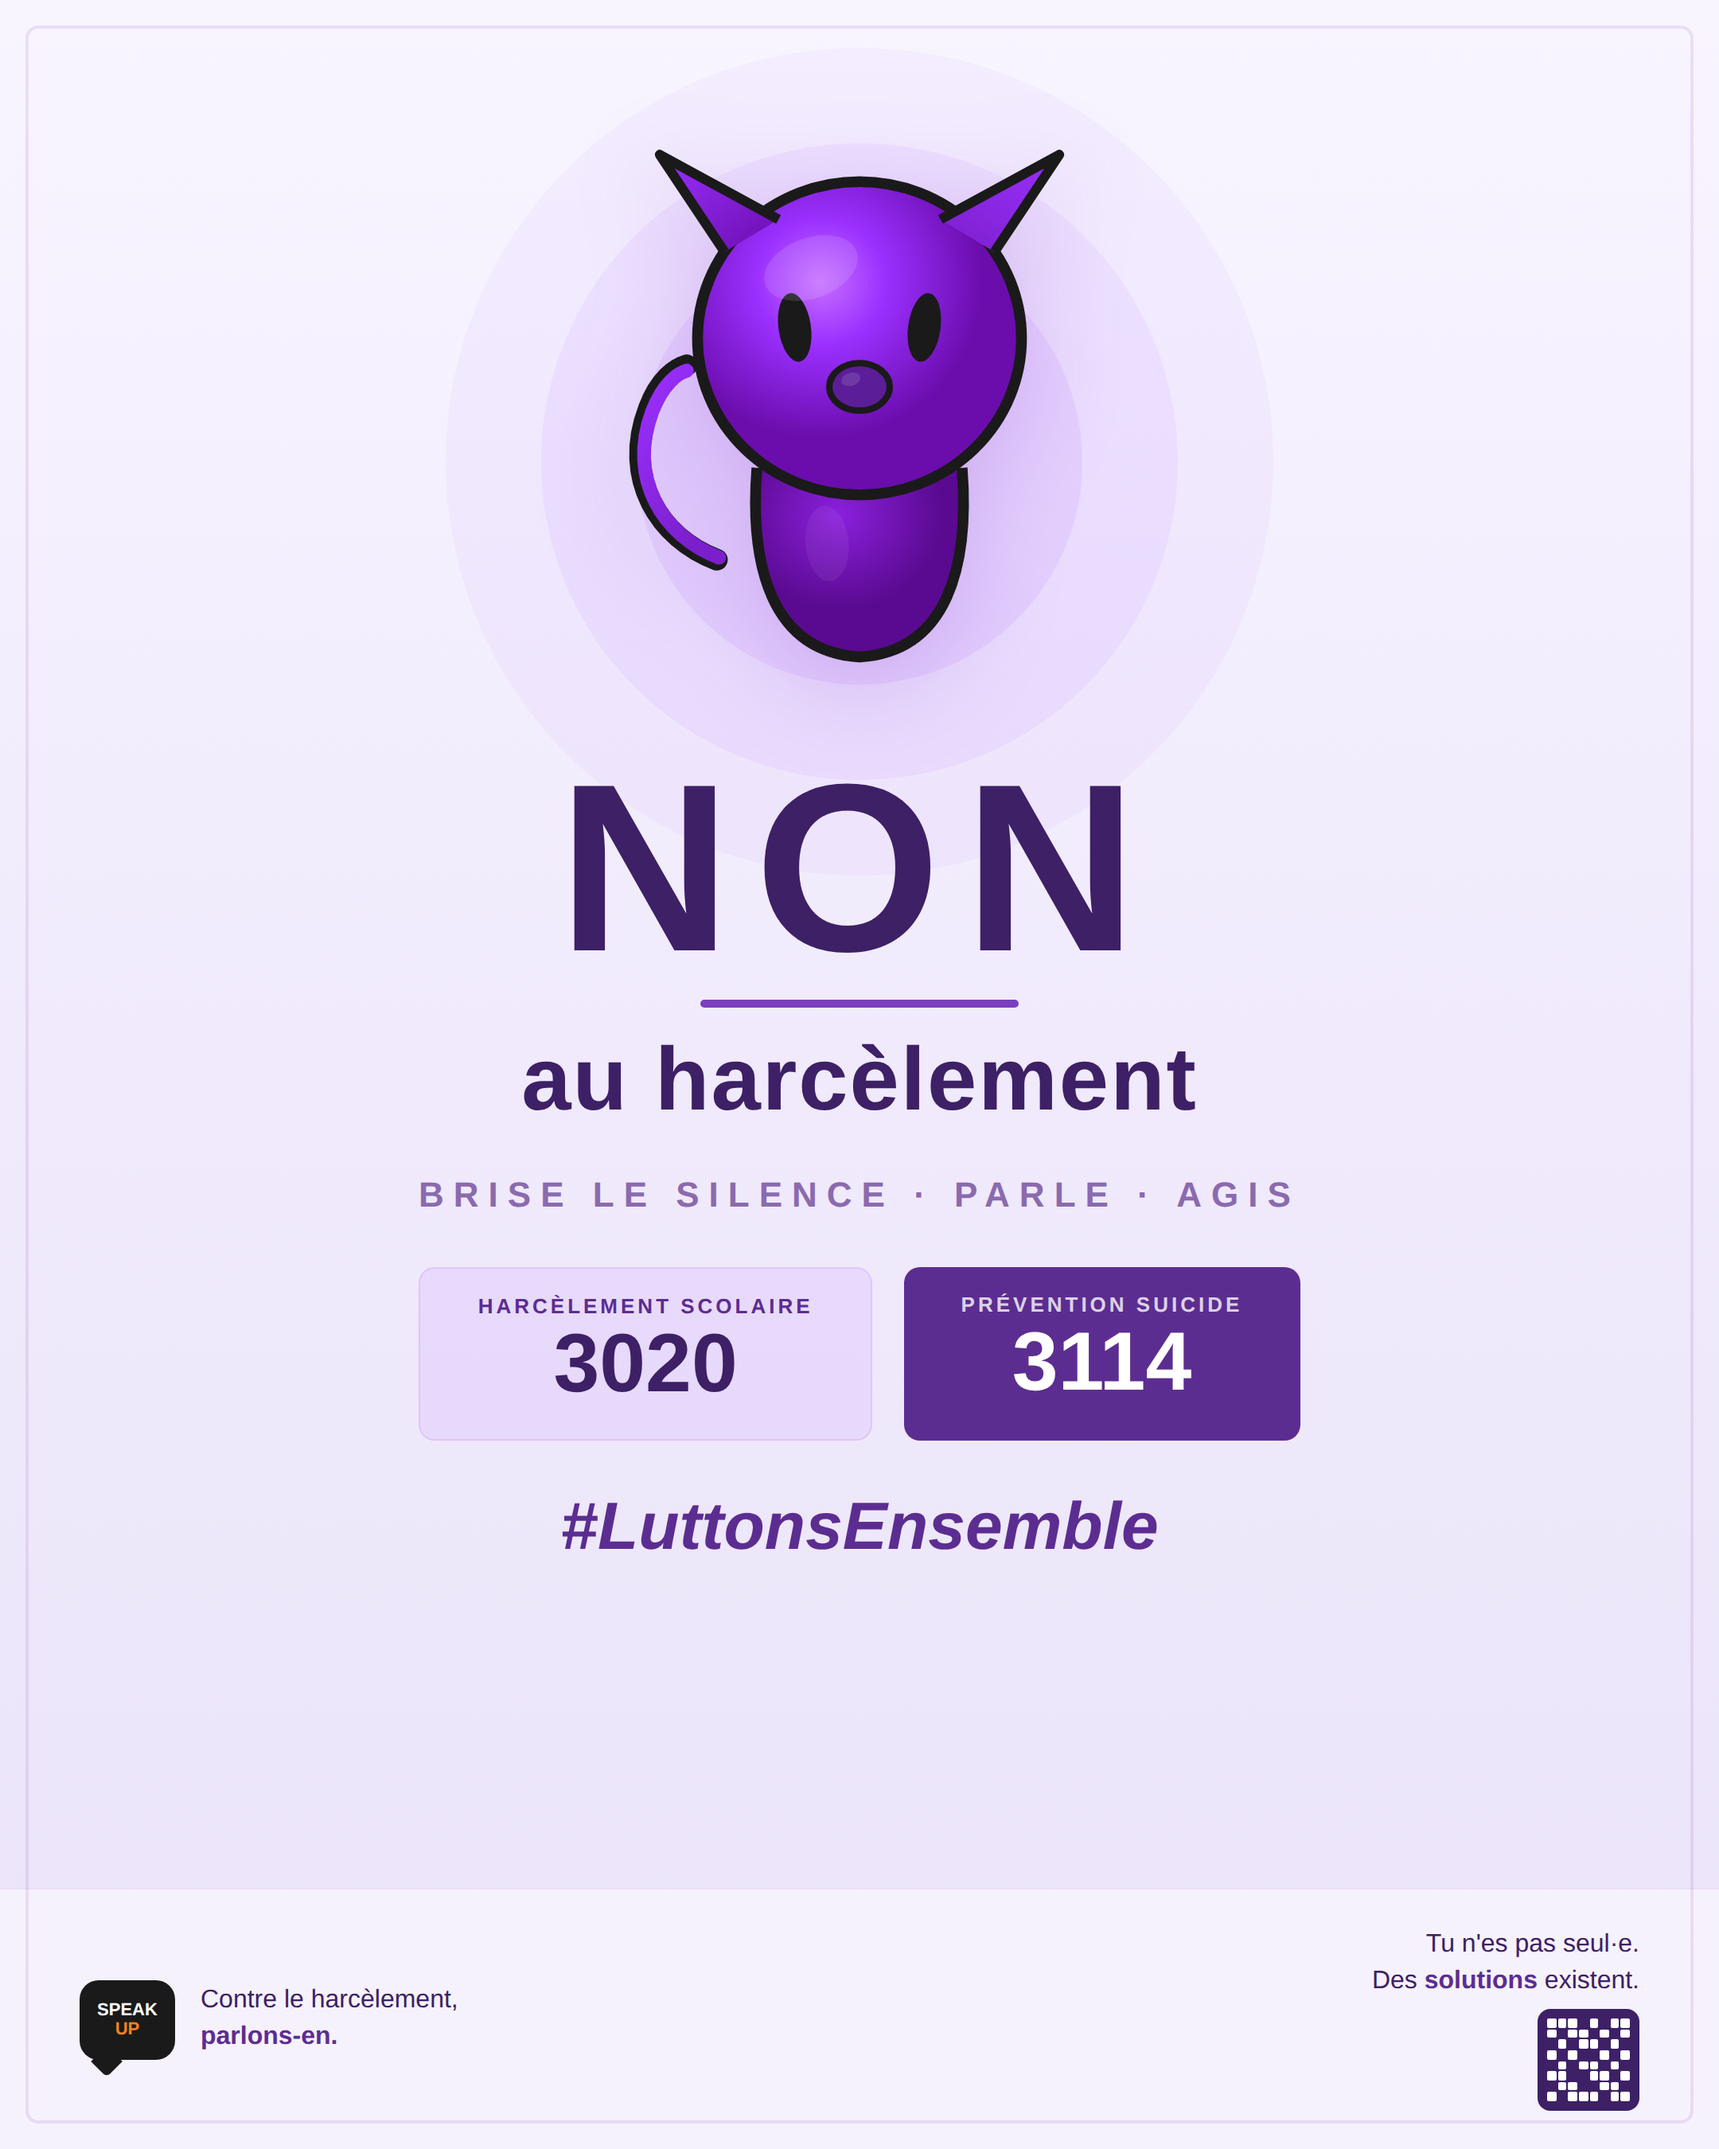
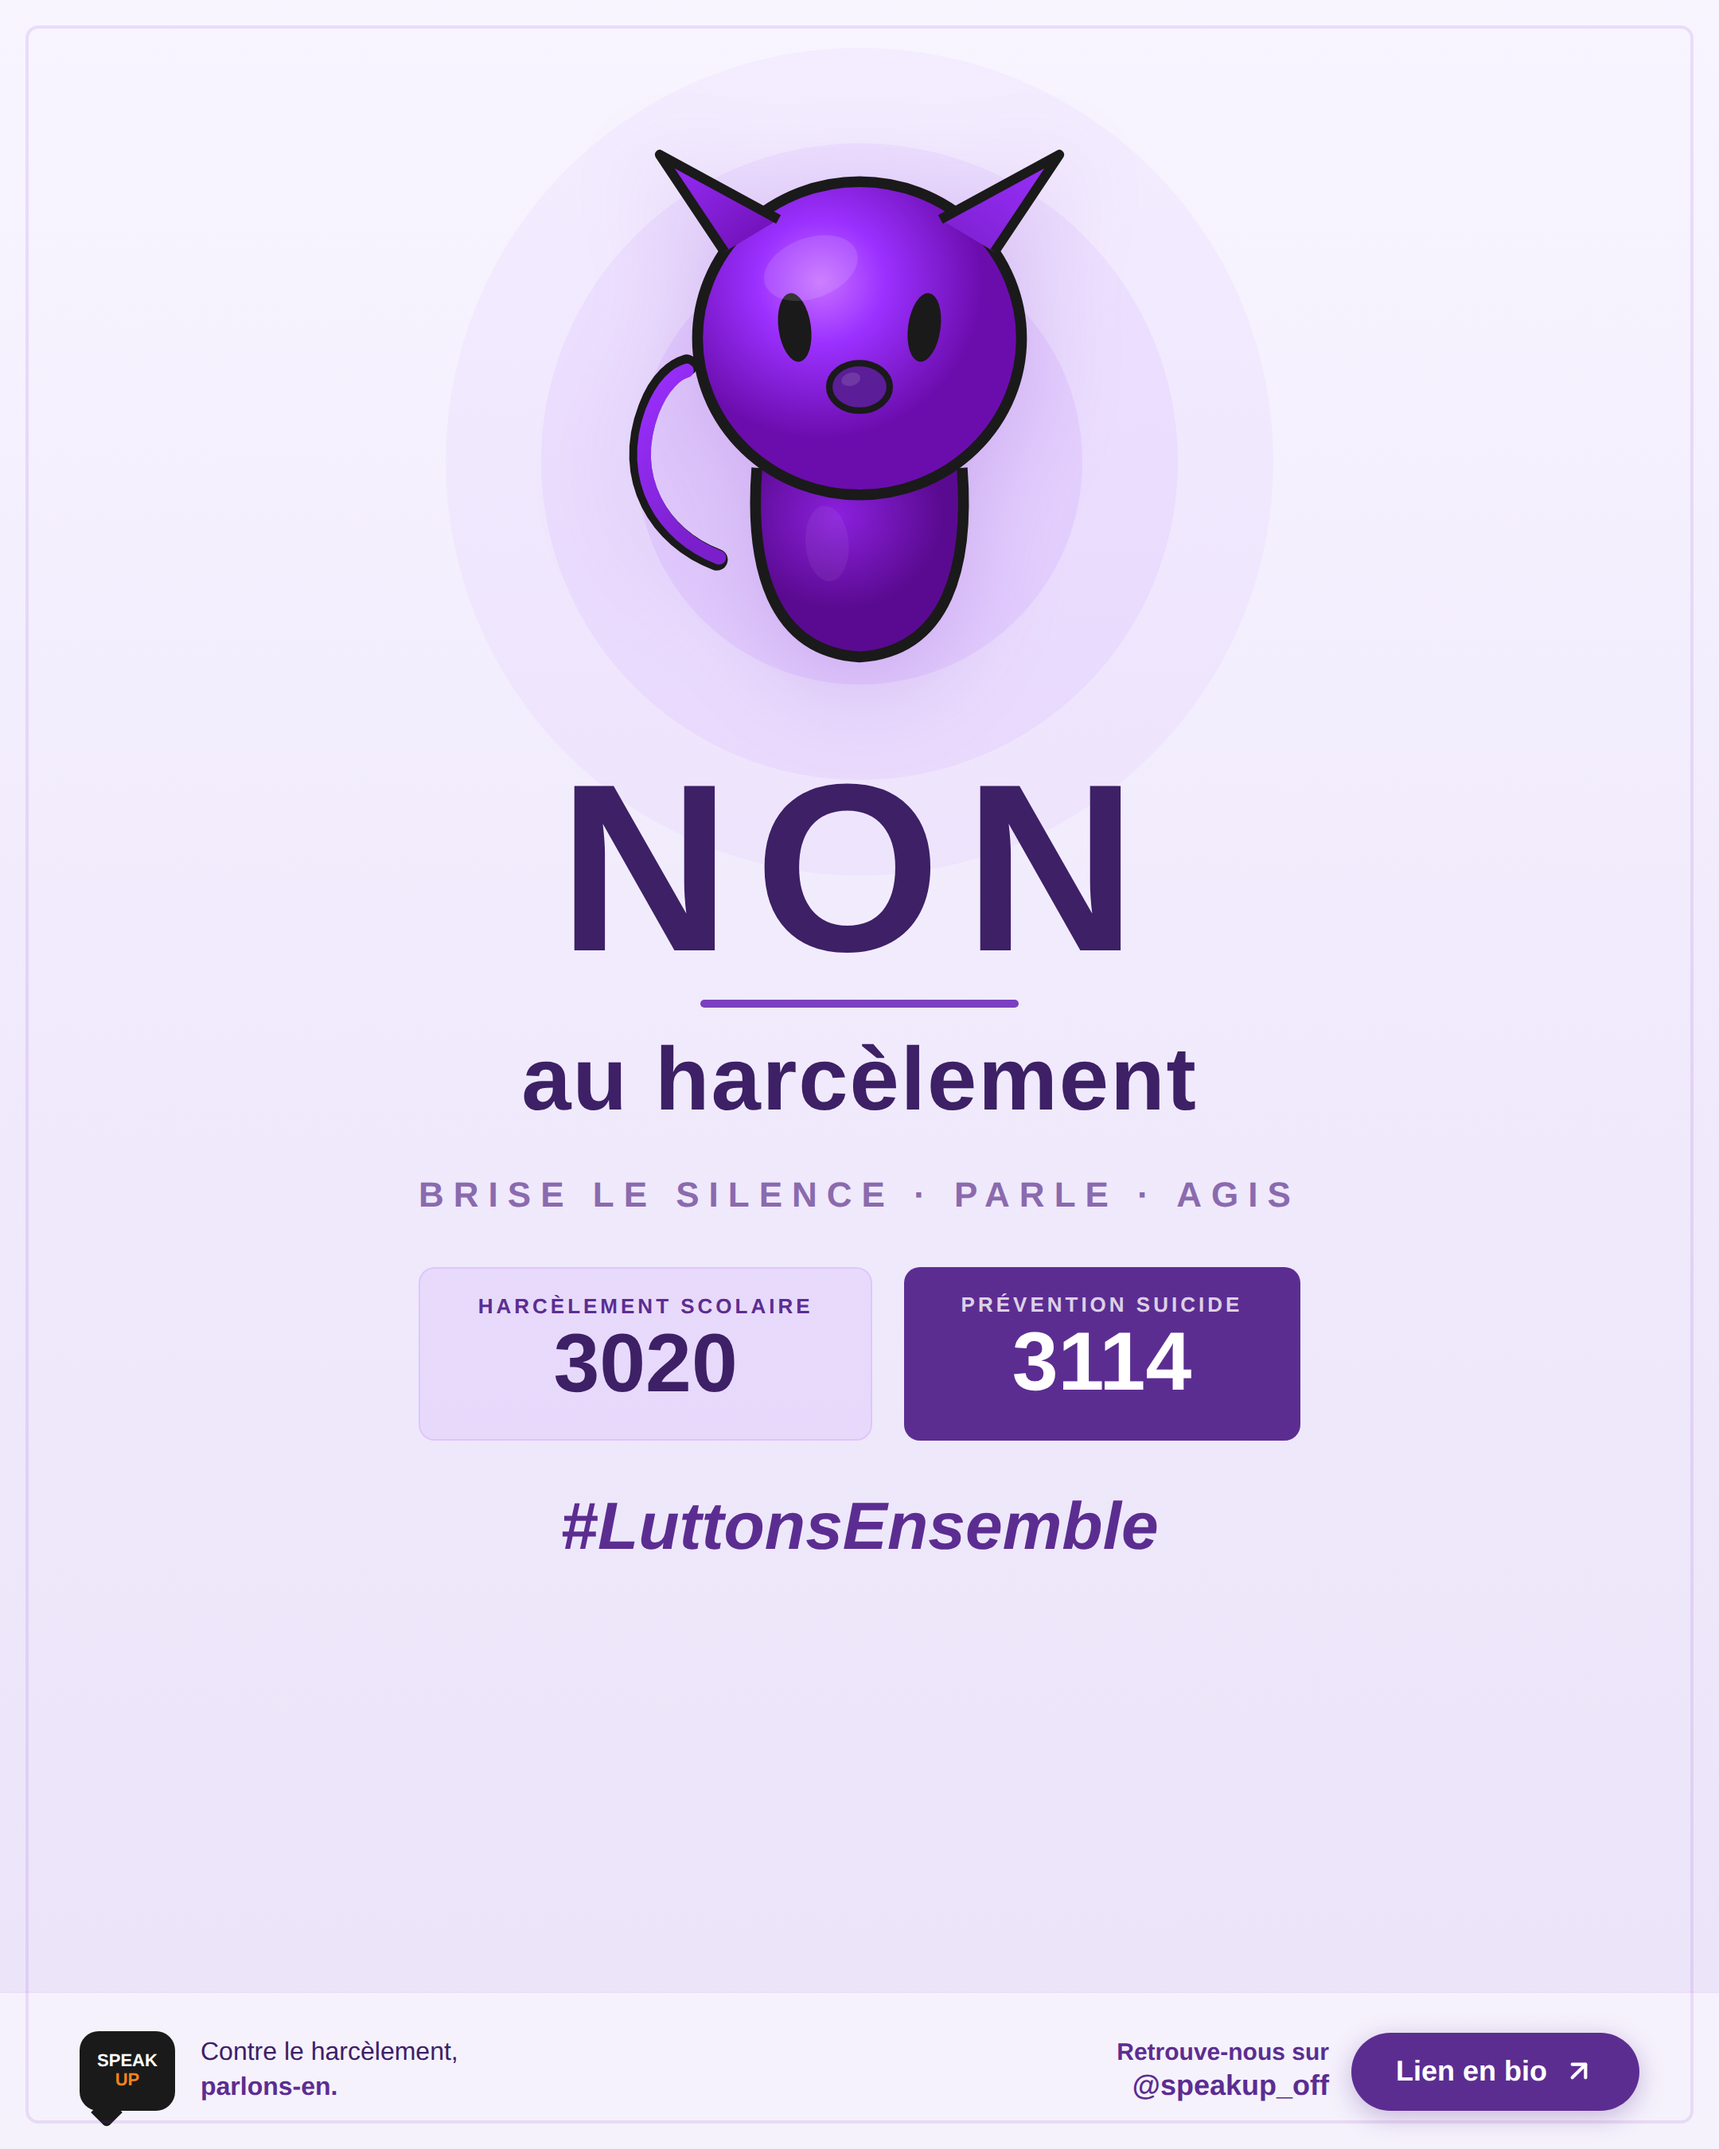
feat: remplace QR code par bouton @speakup_off + Lien en bio

Changed region(s): [[0.6514, 0.9022, 0.9616, 0.9956], [0.031, 0.9022, 0.2481, 0.9956]]

diff --git a/affiche-instagram.html b/affiche-instagram.html
@@ -232,37 +232,41 @@
     }
 
     .bottom-right {
-      text-align: right;
-    }
-    .bottom-right-text {
-      font-size: 16px;
-      color: #3D2066;
-      line-height: 1.4;
-    }
-    .bottom-right-text strong {
-      font-weight: 800;
-      color: #5C2D91;
+      display: flex;
+      align-items: center;
+      gap: 14px;
     }
 
-    /* QR code placeholder */
-    .qr {
-      width: 64px;
-      height: 64px;
-      background: #3D2066;
-      border-radius: 8px;
-      display: grid;
-      grid-template-columns: repeat(8, 1fr);
-      grid-template-rows: repeat(8, 1fr);
-      gap: 1px;
-      padding: 6px;
-      margin-left: auto;
-      margin-top: 6px;
+    .cta-badge {
+      display: flex;
+      align-items: center;
+      gap: 10px;
+      background: #5C2D91;
+      color: white;
+      padding: 14px 28px;
+      border-radius: 50px;
+      font-size: 18px;
+      font-weight: 800;
+      box-shadow: 0 4px 16px rgba(92,45,145,0.3);
     }
-    .qr-cell {
-      border-radius: 1px;
+    .cta-badge svg {
+      width: 20px;
+      height: 20px;
+      stroke: white;
+      fill: none;
     }
-    .qr-w { background: white; }
-    .qr-d { background: #3D2066; }
+
+    .cta-handle {
+      font-size: 15px;
+      font-weight: 700;
+      color: #5C2D91;
+      text-align: right;
+      line-height: 1.3;
+    }
+    .cta-handle .account {
+      font-size: 18px;
+      font-weight: 900;
+    }
   </style>
 </head>
 <body>
@@ -380,18 +384,14 @@
       </div>
     </div>
     <div class="bottom-right">
-      <div class="bottom-right-text">
-        Tu n'es pas seul·e.<br/>Des <strong>solutions</strong> existent.
+      <div class="cta-handle">
+        Retrouve-nous sur<br/><span class="account">@speakup_off</span>
       </div>
-      <div class="qr">
-        <div class="qr-cell qr-w"></div><div class="qr-cell qr-w"></div><div class="qr-cell qr-w"></div><div class="qr-cell qr-d"></div><div class="qr-cell qr-w"></div><div class="qr-cell qr-d"></div><div class="qr-cell qr-w"></div><div class="qr-cell qr-w"></div>
-        <div class="qr-cell qr-w"></div><div class="qr-cell qr-d"></div><div class="qr-cell qr-w"></div><div class="qr-cell qr-w"></div><div class="qr-cell qr-d"></div><div class="qr-cell qr-w"></div><div class="qr-cell qr-d"></div><div class="qr-cell qr-w"></div>
-        <div class="qr-cell qr-d"></div><div class="qr-cell qr-w"></div><div class="qr-cell qr-d"></div><div class="qr-cell qr-w"></div><div class="qr-cell qr-w"></div><div class="qr-cell qr-d"></div><div class="qr-cell qr-w"></div><div class="qr-cell qr-d"></div>
-        <div class="qr-cell qr-w"></div><div class="qr-cell qr-d"></div><div class="qr-cell qr-w"></div><div class="qr-cell qr-d"></div><div class="qr-cell qr-d"></div><div class="qr-cell qr-w"></div><div class="qr-cell qr-d"></div><div class="qr-cell qr-w"></div>
-        <div class="qr-cell qr-d"></div><div class="qr-cell qr-w"></div><div class="qr-cell qr-d"></div><div class="qr-cell qr-w"></div><div class="qr-cell qr-w"></div><div class="qr-cell qr-d"></div><div class="qr-cell qr-w"></div><div class="qr-cell qr-d"></div>
-        <div class="qr-cell qr-w"></div><div class="qr-cell qr-w"></div><div class="qr-cell qr-d"></div><div class="qr-cell qr-d"></div><div class="qr-cell qr-w"></div><div class="qr-cell qr-w"></div><div class="qr-cell qr-d"></div><div class="qr-cell qr-w"></div>
-        <div class="qr-cell qr-d"></div><div class="qr-cell qr-w"></div><div class="qr-cell qr-w"></div><div class="qr-cell qr-d"></div><div class="qr-cell qr-d"></div><div class="qr-cell qr-w"></div><div class="qr-cell qr-w"></div><div class="qr-cell qr-d"></div>
-        <div class="qr-cell qr-w"></div><div class="qr-cell qr-d"></div><div class="qr-cell qr-w"></div><div class="qr-cell qr-w"></div><div class="qr-cell qr-w"></div><div class="qr-cell qr-d"></div><div class="qr-cell qr-w"></div><div class="qr-cell qr-w"></div>
+      <div class="cta-badge">
+        Lien en bio
+        <svg viewBox="0 0 24 24" stroke-width="2.5" stroke-linecap="round" stroke-linejoin="round">
+          <path d="M7 17L17 7"/><path d="M7 7h10v10"/>
+        </svg>
       </div>
     </div>
   </div>
